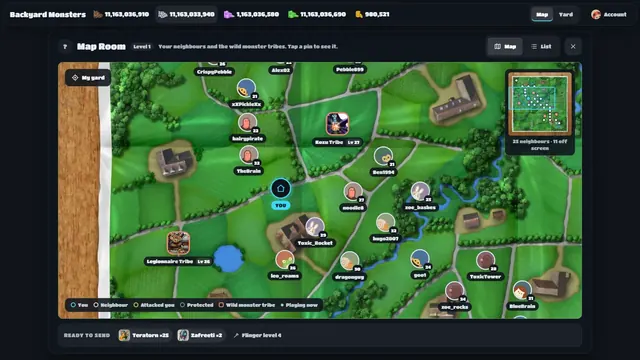
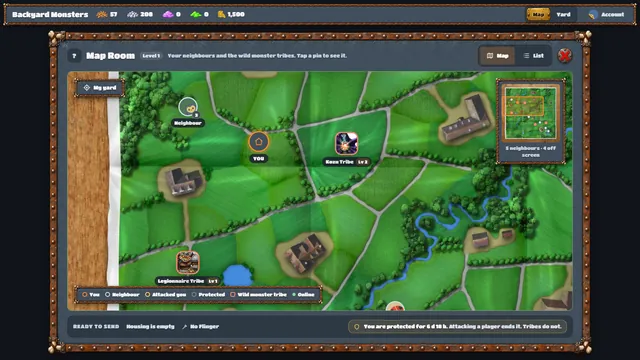
Site for beta 6: changelog entry, What's new additions, new Map Room 1 picture

diff --git a/site/src/content/changelog/2026-11-05-beta-6.md b/site/src/content/changelog/2026-11-05-beta-6.md
@@ -1,0 +1,51 @@
+---
+title: "Beta 6: a new Map Room 2 and a yard in 3D"
+date: 2026-11-05
+---
+
+### Map Room 2
+
+- **A new look in Modern.** The map is one painted landscape with hills, cliffs, forests, rock fields, goo marsh, beaches and rivers, and you look across it at a tilt. Prefer it flat? Switch it off for your account.
+- **Land matters.** Forest, rock and marsh cells change a cell's defence and income. Cells next to your own cells defend better, shown as a shield in the cell's pop-up.
+- **Moving map.** On Quality High, water moves, foam runs along the shore, clouds drift overhead and gulls fly past. Medium keeps the moving water and foam. Low is still.
+- **Tribe camp health bars.** A damaged camp shows a health bar over it, and heals 12 hours after the last attack.
+- **Faster to open,** also in Firefox.
+
+### Your yard in 3D
+
+- **Most buildings are now 3D in Modern,** with moving parts and their own damaged and destroyed looks. Classic keeps the original Flash buildings.
+- **On the Inferno yard:** a new Incubator Control Centre on a lava pool, and new Inferno blocks.
+
+### New
+
+- **Quests.** A 7-day login card, 5 daily quests and 3 weekly quests, all paying Shiny. One free swap a day for a daily quest you don't like.
+- **Monster Lab abilities.** Swarm for Pokey, Weakening Ooze for Octo-ooze, Thorns for Ichi and Critical Hits for Crabatron.
+- **Decorations for Shiny.** The original game's decorations are on sale again, in the Build menu's Decorations tab.
+- **The Juicer show.** Monsters walk into the Juicer, get blended, and goo and giblets spurt out.
+- **Wild tribe camps rebuilt.** Every tribe camp has a new hand-made yard at every level, and the tribes are rebalanced.
+
+### Sound
+
+- **The original attack sounds are back:** tower shots, monster deaths, bombs, Wormzer and more.
+- **Loot flies out of buildings** during an attack as orbs, with "+" numbers.
+- **Separate volume sliders** for Music and Sound effects.
+
+### Improvements
+
+- **Font.** Settings ▸ Look and sound ▸ Font: Game font, Clear or Extra readable.
+- **World chat on or off.** Settings ▸ Social ▸ World chat.
+- **Tower range.** Hover over one of your own defences to see how far it reaches.
+- **One "More" button** for Quests, Layout, Goals, alerts, Defences and Mail.
+- **Yard Planner.** The bottom bar is now painted buttons: Undo, Redo, Select, Box, Find, Upgrade walls and Re-arm traps. Mirror, Align and Distribute are gone.
+- **Upgrade walls.** No need to select walls first. Press Upgrade walls in the planner or in a wall's pop-up, pick a level, then pick walls yourself or use Select all or Affordable.
+- **Account menu.** Your level now shows on your account button, and Settings has three tabs: Account, Look and sound, and Social.
+- **Support the game.** A new item in the account menu with Patreon and Ko-fi links.
+- **Shiny Lock.** The Shiny counter shows a padlock instead of 0 while Shiny Lock is on.
+
+### Fixes
+
+- Attacks keep running while the game's tab is hidden.
+- Attacks on wild tribes, the Descent and Moloch count even if you leave or your connection drops.
+- Attacks have enough time to save their result at the end, also under Declare War.
+- Attacking a healed tribe camp straight from the map now fights the healed camp.
+- The game loads in older browsers again.

diff --git a/site/src/content/guides/whats-new-in-revamped.md b/site/src/content/guides/whats-new-in-revamped.md
@@ -3,7 +3,7 @@ title: What's new in Revamped
 description: The features you won't find in the original Backyard Monsters, and where to find them.
 order: 6
 icon: /images/guides/new-card.webp
-updated: 2026-11-04
+updated: 2026-11-05
 ---
 
 The first sections are new in **beta 6**. Everything from "New in beta 5" down, except the last section, came with beta 5.
@@ -15,7 +15,8 @@ In **Modern**, Map Room 2 is one painted landscape: grass, hills, cliffs, forest
 - **Land matters:** forest, rock and marsh cells change a cell's defence and income.
 - **Neighbours help:** a cell next to your own cells defends better (+5% to +15%). The cell's pop-up shows it as a shield.
 - **Prefer it flat?** Switch the tilt off for your account.
-- **Classic** keeps the original Flash map.
+- **Tribe camps:** a damaged camp shows a health bar, and heals 12 hours after the last attack.
+- **Classic** keeps the original Flash map art, with the same moving water and clouds.
 
 ![The new Map Room 2: a tilted, painted map with a player's land and the tribe camps around it](/images/guides/new6-map.webp)
 
@@ -76,6 +77,20 @@ Turn on **Shiny Lock** in **Settings** to hide your Shiny. A padlock shows inste
 
 Hover over one of your own defences to see how far it reaches. Only on your own yard.
 
+## Yard Planner and walls
+
+The planner's bottom bar is now painted buttons: Undo, Redo, Select, Box, Find, Upgrade walls and Re-arm traps. Mirror, Align and Distribute are gone.
+
+**Upgrade walls** no longer needs you to select walls first. See [Upgrade many walls at once](/guides/upgrade-many-walls/).
+
+## Account menu and Settings
+
+Your level now shows on your account button. **Settings** has three tabs: **Account**, **Look and sound** and **Social**.
+
+## Attacks in a hidden tab
+
+An attack keeps running while the game's tab is hidden, so you can switch tabs and come back.
+
 ## New in beta 5
 
 These came with beta 5.
@@ -103,6 +118,7 @@ Every window has a painted frame. It follows the same switch.
 **Settings ▸ Quality:** High, Medium or Low.
 
 - **Low** loads smaller pictures and lighter music.
+- **Map Room 2:** on High, water, foam, clouds and gulls all move. Medium keeps the moving water and foam. Low is still.
 - On a slow connection, the game suggests Low once. It never switches by itself.
 
 ![Settings, the Look and sound tab: Style, Font, Music and the two volume sliders](/images/guides/new-settings.webp)

diff --git a/docs/releases/drafts/v2.0.0-beta.6-patreon.md b/docs/releases/drafts/v2.0.0-beta.6-patreon.md
@@ -80,7 +80,11 @@ _Caption: Loot pops out of every building you hit._
 - **Tower range:** hover over one of your defences to see how far it reaches.
 - **One "More" button** for Quests, Layout, Goals, alerts, Defences and Mail, and a tidier bottom row on phones.
 - **World chat** can be switched off in Settings.
-- **Fixes:** attacks on wild tribes, the Descent and Moloch count even if your connection drops, and the game loads in older browsers again.
+- **Yard Planner:** a new bar of painted buttons, and Upgrade walls no longer needs you to select walls first.
+- **Account menu:** your level now shows on your account button, and Settings has three tabs.
+- **Tribe camps:** damaged camps show a health bar on the map and heal 12 hours after the last attack.
+- **Shiny Lock:** the Shiny counter shows a padlock instead of 0.
+- **Fixes:** attacks on wild tribes, the Descent and Moloch count even if your connection drops, and the game loads in older browsers again. Attacks also keep running while the game's tab is hidden.
 
 The full list is in the patch notes.
 

diff --git a/site/src/content/guides/attacking-and-the-map-room.md b/site/src/content/guides/attacking-and-the-map-room.md
@@ -19,7 +19,6 @@ Tap **Map** to open your Map Room. In Map Room 1 you'll find two kinds of target
 - **Wild monster tribes.** The Legionnaires, Kozu, Abunakki and Dreadnauts are always there to raid. A flattened tribe is back in 10 minutes.
 - **Neighbours.** Other players near you. Protected yards can't be attacked.
 
-<!-- TODO lead: retake (see guides-picture-audit.md) -->
 ![Map Room 1: neighbours and wild tribe camps on a painted map](/images/shots/map.webp)
 
 Tap a target to see it, then tap **Attack**.
